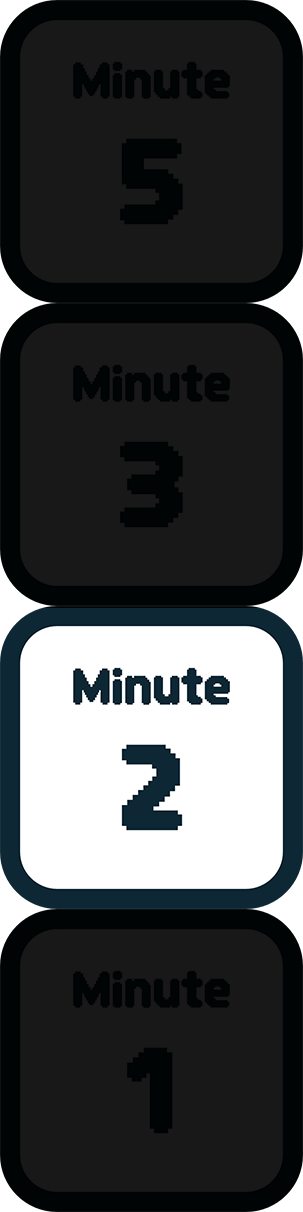
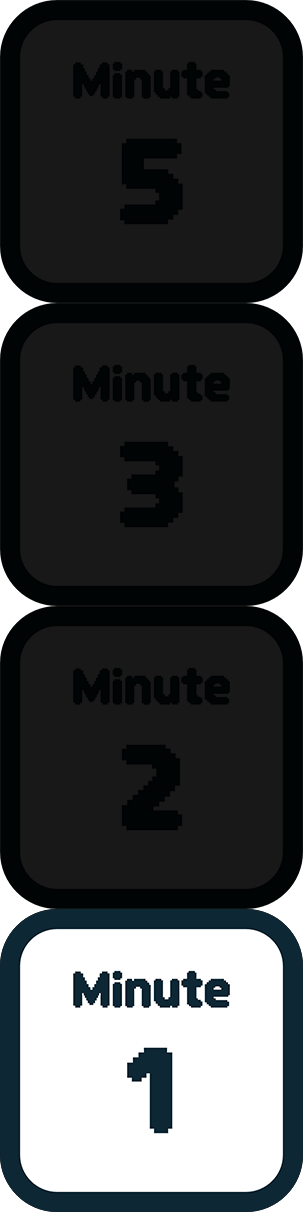
결과창 제외 구현 완료

diff --git a/2DGP_PROJECT_1VS1SOCCER/code/game_object.py b/2DGP_PROJECT_1VS1SOCCER/code/game_object.py
@@ -1,6 +1,6 @@
 from pico2d import *
 import math
-from game_start import GameStart
+import game_world
 
 
 Screen_x, Screen_y = 1920, 1080
@@ -35,6 +35,10 @@ class Ball:
 class GameCharacter:
     def __init__(self):
 
+        # DNFBitBitv2.ttf 폰트를 로드
+        self.font_score = load_font('Font/DNFBitBitv2.ttf', 30)
+        self.font_winscore = load_font('Font/DNFBitBitv2.ttf', 50)
+
         # === 캐릭터
         self.character_01 = load_image('GAME_CHARACTER/CharacterSheet.png')
         self.character_02 = load_image('GAME_CHARACTER/CharacterSheet.png')
@@ -42,8 +46,8 @@ class GameCharacter:
         self.character_02_flip = load_image('GAME_CHARACTER/CharacterSheetFlip.png')
 
         # === 캐릭터 설정
-        self.ch_01_st = {'speed': 10, 'power': 3, 'jump': 13}   #5/3/3
-        self.ch_02_st = {'speed': 6, 'power': 5, 'jump': 13}    #3/5/3
+        self.ch_01_st = {'speed': 15, 'power': 3, 'jump': 13}   #5/3/3
+        self.ch_02_st = {'speed': 11, 'power': 5, 'jump': 13}    #3/5/3
 
         self.ch_x_01, self.ch_x_02 = Screen_x * 0.3, Screen_x * 0.7     # 캐릭터 초기 위치 x 좌표
         self.ch_y_01, self.ch_y_02 = 300, 300  # 캐릭터 초기 위치 y 좌표
@@ -59,27 +63,26 @@ class GameCharacter:
         # === 공
         self.ball = load_image('GAME_ROUND/Ball.png')
 
-        # === 공 설정
-        #self.ball_x, self.ball_y = Screen_x // 2, 230
-        #self.ball_r = 60 // 2
-        #self.ball_dx, self.ball_dy = 0, 0
-
         # === 공 객체 생성 (정지 상태)
         self.static_ball = Ball(Screen_x // 2, 230, 30, 10, False)   # x / y / 반지름 / 속도 / 움직임 여부
+
+        # === 점수
+        self.score_01, self.score_02 = 0, 0
+        self.goalmsg = load_image('GAME_ROUND/GoalMSG.png')
+        self.win_01 = load_image('GAME_BACKGROUND/WinScreen_01.png')
+        self.win_02 = load_image('GAME_BACKGROUND/WinScreen_02.png')
 
         # === 기본 설정
         self.x, self.y = Screen_x // 2, Screen_y // 2
         self.bottom_01, self.bottom_02 = 0, 4
         self.frame_01, self.frame_02 = 0, 0
 
-        print("GameCharacter")
-
     def update(self):
         self.frame_01 = (self.frame_01 + 1) % 3
         self.frame_02 = (self.frame_02 + 1) % 3
 
-        self.update_character()
         self.check_collision()
+        self.update_character()
 
     def check_collision(self):
         # 공과 캐릭터 1의 충돌 검사
@@ -88,7 +91,7 @@ class GameCharacter:
             # 충돌 시 튕김
             self.bounce_ball(self.ch_01_st['power'], self.ch_x_01, self.ch_y_01)
             self.static_ball.is_moving = True
-            print("충돌 발생 : ball-01")
+            #print("충돌 발생 : ball-01")
 
         # 공과 캐릭터 2의 충돌 검사
         distance_02 = math.sqrt((self.ch_x_02 - self.static_ball.x)**2 + (self.ch_y_02 - self.static_ball.y)**2)
@@ -96,7 +99,7 @@ class GameCharacter:
             # 충돌 시 튕김
             self.bounce_ball(self.ch_02_st['power'], self.ch_x_02, self.ch_y_02)
             self.static_ball.is_moving = True
-            print("충돌 발생 : ball-02")
+            #print("충돌 발생 : ball-02")
 
     def bounce_ball(self, power, character_x, character_y):
         # 충돌 시 튕김 로직
@@ -112,21 +115,59 @@ class GameCharacter:
             bounce_distance = power * 5
 
             # 공의 위치 업데이트
-            self.static_ball.x = character_x + direction_x * (self.ch_r + self.static_ball.radius + bounce_distance)
-            #self.static_ball.y = character_y + direction_y * (self.ch_r + self.static_ball.radius + bounce_distance)
+            new_x = character_x + direction_x * (self.ch_r + self.static_ball.radius + bounce_distance)
+            self.static_ball.x = clamp(95, new_x, 1825)
+
+            # self.static_ball.y = character_y + direction_y * (self.ch_r + self.static_ball.radius + bounce_distance)
 
             # 공의 이동 방향 업데이트
             self.static_ball.dx = direction_x
-            #self.static_ball.dy = direction_y
+            # self.static_ball.dy = direction_y
+
+            self.goal_check()
+
+    def clamp(min_value, value, max_value):
+        return max(min_value, min(value, max_value))
+
+    def goal_check(self):
+        if self.static_ball.x < 290:
+            self.score_02 += 1
+            self.static_ball.x = Screen_x // 2
+            self.ch_x_01, self.ch_x_02 = Screen_x * 0.3, Screen_x * 0.7
+        elif self.static_ball.x > 1630:
+            self.score_01 += 1
+            self.static_ball.x = Screen_x // 2
+            self.ch_x_01, self.ch_x_02 = Screen_x * 0.3, Screen_x * 0.7
+
+        #print("01 : ", self.score_01, "02 : ", self.score_02)
 
     def draw(self):
         self.draw_character()
-        #self.ball.clip_draw(0, 0, 41, 41, self.ball_x,self.ball_y, 60, 60)
         # === 정지 상태의 공 그리기
         self.static_ball.draw()
 
+        time_string = f'{self.score_01:02}:{self.score_02:02}'  # 분과 초를 2자리 숫자로 표현
+        self.font_score.draw(self.x - 50, self.y + 400, time_string, (255, 255, 255))
+
+        from game_printtime import GamePrintTime
+        gameprinttime = GamePrintTime()
+        gameend = gameprinttime.game_end()
+        if gameend == True:
+            self.draw_end()
+
+
     def handle_events(self, e):
         self.move_character(e)
+
+        from game_printtime import GamePrintTime
+        gameprinttime = GamePrintTime()
+        gameend = gameprinttime.game_end()
+        if gameend == True:
+            if e.type == SDL_MOUSEBUTTONDOWN:
+                game_world.clear()
+                from game_select import GameSelect  # Import inside the method
+                game_list = GameSelect()
+                game_world.add_object(game_list, 0)
 
     # === 캐릭터
     def draw_character(self):
@@ -155,6 +196,21 @@ class GameCharacter:
                 self.character_02_flip.clip_draw(174, self.bottom_02 * 174, 174, 174, self.ch_x_02, self.ch_y_02)
             else:
                 self.character_02.clip_draw(174, self.bottom_02 * 174, 174, 174, self.ch_x_02, self.ch_y_02)
+
+    def draw_end(self):
+        if self.score_01 > self.score_02:
+            self.win_01.clip_draw(0, 0, Screen_x, Screen_y, self.x, self.y)
+        elif self.score_01 < self.score_02:
+            self.win_02.clip_draw(0, 0, Screen_x, Screen_y, self.x, self.y)
+        else:
+            game_world.clear()
+            from game_select import GameSelect  # Import inside the method
+            game_list = GameSelect()
+            game_world.add_object(game_list, 0)
+
+        self.font_winscore.draw(805, 865, self.score_01, (0, 0, 0))
+        self.font_winscore.draw(1115, 865, self.score_02, (0, 0, 0))
+
 
     def update_character(self):
         # 캐릭터 1 이동 및 점프 로직

diff --git a/2DGP_PROJECT_1VS1SOCCER/code/game_printtime.py b/2DGP_PROJECT_1VS1SOCCER/code/game_printtime.py
@@ -21,12 +21,15 @@ class GamePrintTime:
         self.show_count = True
         self.x, self.y = Screen_x // 2, Screen_y // 2
 
+        self.end_check = True
+
     def update(self):
-        if self.countdown_time > 0:
+        if self.countdown_time > 0.1:
             self.countdown_time -= 0.05
-            #print(self.countdown_time)
+            print(self.countdown_time)
         else:
-            pass        # 이후 게임 결과 창으로 이동 구현
+            self.countdown_time = 0
+            self.game_end()
 
     def draw(self):
         # 카운트 다운 시간 출력
@@ -35,7 +38,11 @@ class GamePrintTime:
         minutes = int(minutes)
         seconds = int(seconds)
         time_string = f'{minutes:02}:{seconds:02}'  # 분과 초를 2자리 숫자로 표현
-        self.font.draw(self.x, self.y + 500, time_string, (255, 255, 255))
+        self.font.draw(self.x - 80, self.y + 500, time_string, (255, 255, 255))
+
+    def game_end(self):
+        if self.countdown_time == 0:
+            return (self.end_check)
 
     def handle_events(self, e):
         pass

diff --git a/2DGP_PROJECT_1VS1SOCCER/code/game_background.py b/2DGP_PROJECT_1VS1SOCCER/code/game_background.py
@@ -9,6 +9,11 @@ class GameBackGround:
     def __init__(self):
         self.background = load_image('GAME_ROUND/BackGround.png')
         self.ground = load_image('GAME_ROUND/Ground.png')
+
+        # === 골대
+        self.post_back_r = load_image('GAME_ROUND/PostBack.png')
+        self.post_back_l = load_image('GAME_ROUND/PostBack_Left.png')
+
         self.x, self.y = Screen_x // 2, Screen_y // 2
         self.ground_x = Screen_x // 2
 
@@ -18,6 +23,9 @@ class GameBackGround:
     def draw(self):
         self.background.clip_draw(0, 0, Screen_x, Screen_y, self.x, self.y)
         self.ground.clip_draw(2000, 0, 2000, 460, self.ground_x, 228, 2000, 460)
+
+        self.post_back_r.clip_draw(0, 0, 272, 323, 1710, 500)
+        self.post_back_l.clip_draw(0, 0, 272, 323, 210, 500)
 
     def handle_events(self, e):
         pass

diff --git a/2DGP_PROJECT_1VS1SOCCER/code/game_time.py b/2DGP_PROJECT_1VS1SOCCER/code/game_time.py
@@ -17,7 +17,7 @@ class GameTime:
 
         self.bottom = 0
         self.x, self.y = Screen_x // 2, Screen_y // 2
-        self.timeset = 120  # timeset 속성을 초기화합니다.
+        self.timeset = 60  # timeset 속성을 초기화합니다.
 
     def update(self):
         pass
@@ -46,7 +46,7 @@ class GameTime:
                 gamestart = GameStart()
                 game_world.add_object(gamestart, 0)
             elif 1745 <= x <= 1875 and 510 <= y <= 650:
-                if self.bottom == 1:
+                if self.bottom == 0:
                     game_world.clear()
 
                     from game_countdown import GameCountDown

diff --git a/2DGP_PROJECT_1VS1SOCCER/code/game_post.py b/2DGP_PROJECT_1VS1SOCCER/code/game_post.py
@@ -1,0 +1,23 @@
+from pico2d import *
+import game_world
+
+Screen_x, Screen_y = 1920, 1080
+
+
+# [game_post] 골대 앞면
+class GamePost:
+    def __init__(self):
+
+        # === 골대
+        self.post_front_r = load_image('GAME_ROUND/PostFront.png')
+        self.post_front_l = load_image('GAME_ROUND/PostFront_Left.png')
+
+    def update(self):
+        pass
+
+    def draw(self):
+        self.post_front_r.clip_draw(0, 0, 342, 593, 1740, 365)
+        self.post_front_l.clip_draw(0, 0, 342, 593, 180, 365)
+
+    def handle_events(self, e):
+        pass

diff --git a/2DGP_PROJECT_1VS1SOCCER/code/game_ground.py b/2DGP_PROJECT_1VS1SOCCER/code/game_ground.py
@@ -8,11 +8,15 @@ Screen_x, Screen_y = 1920, 1080
 class GameGround:
     def __init__(self):
 
+        from game_post import GamePost
+        gamepost = GamePost()
+        game_world.add_object(gamepost, 2)
+
         from game_mouse import GameMouse
         gamemouse = GameMouse()
         game_world.add_object(gamemouse, 2)
 
-        from game_character import GameCharacter
+        from game_object import GameCharacter
         character = GameCharacter()
         game_world.add_object(character, 1)
 
